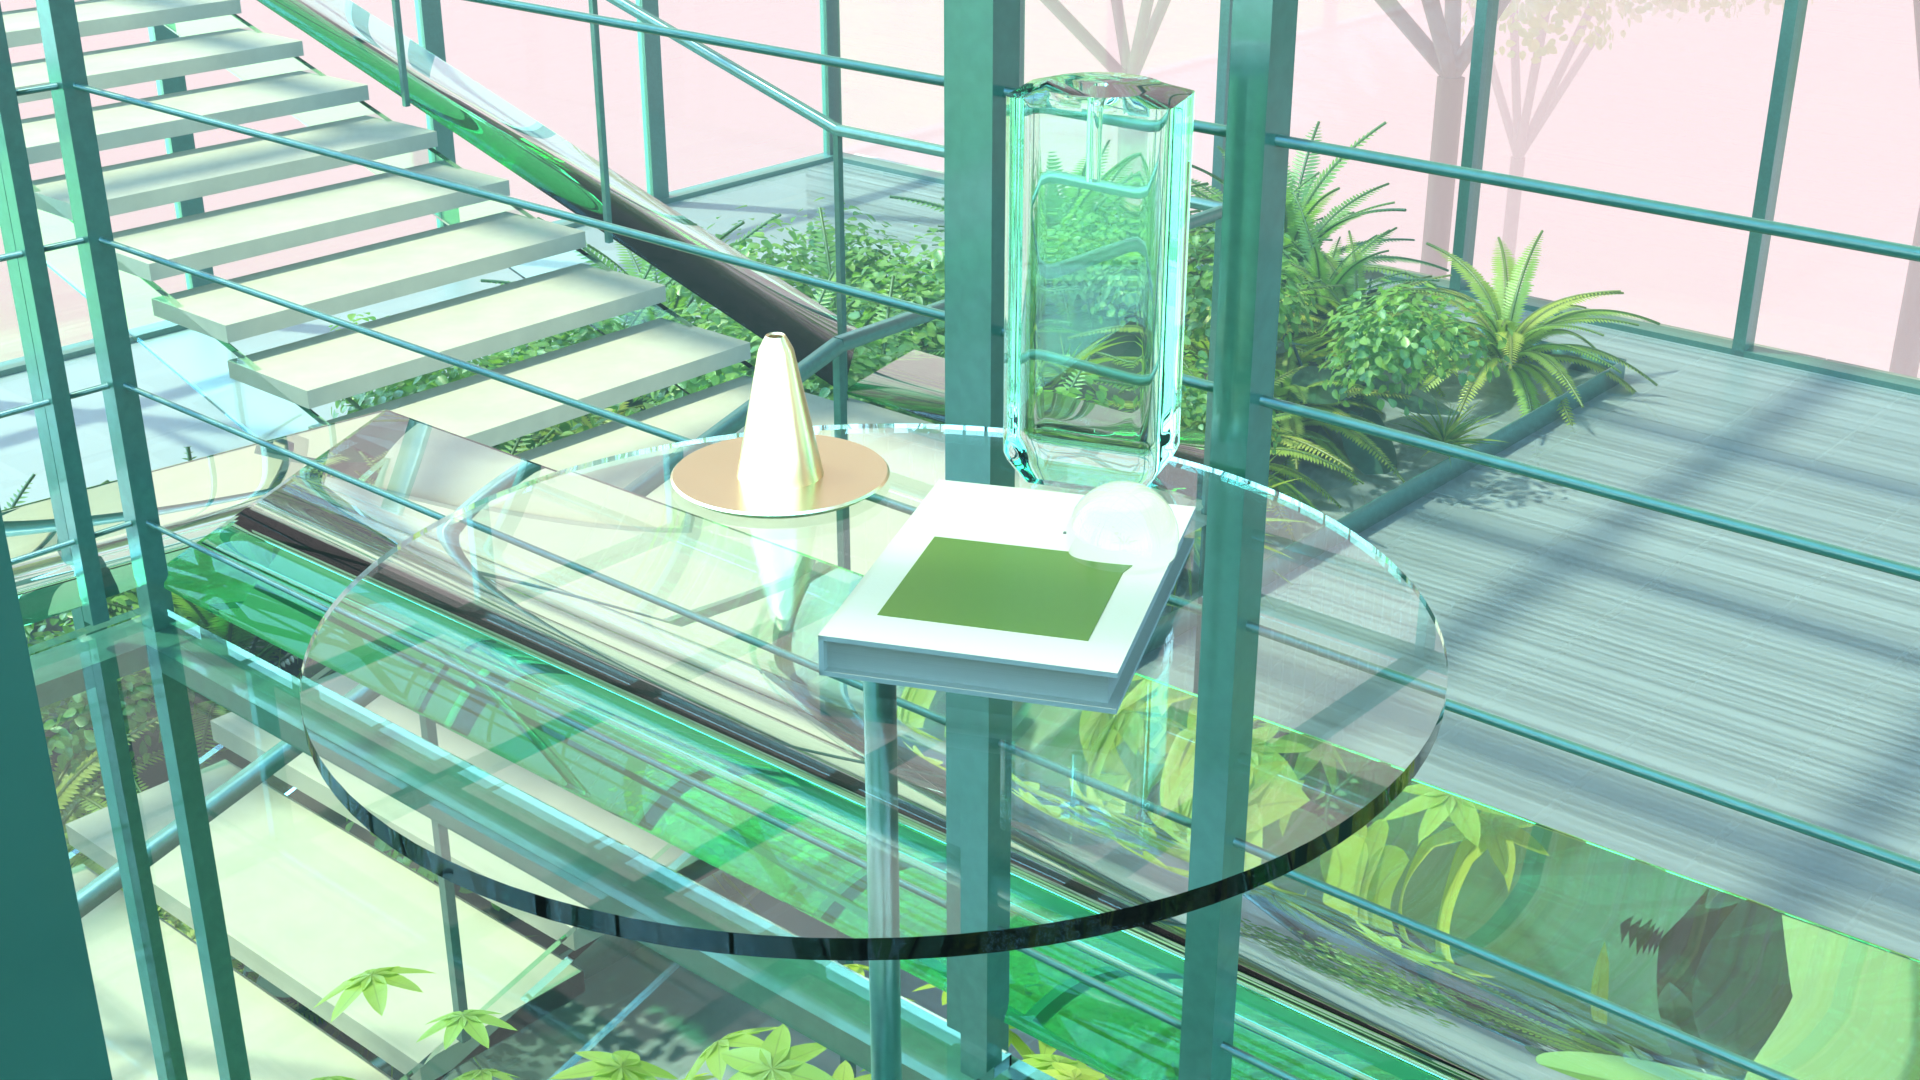
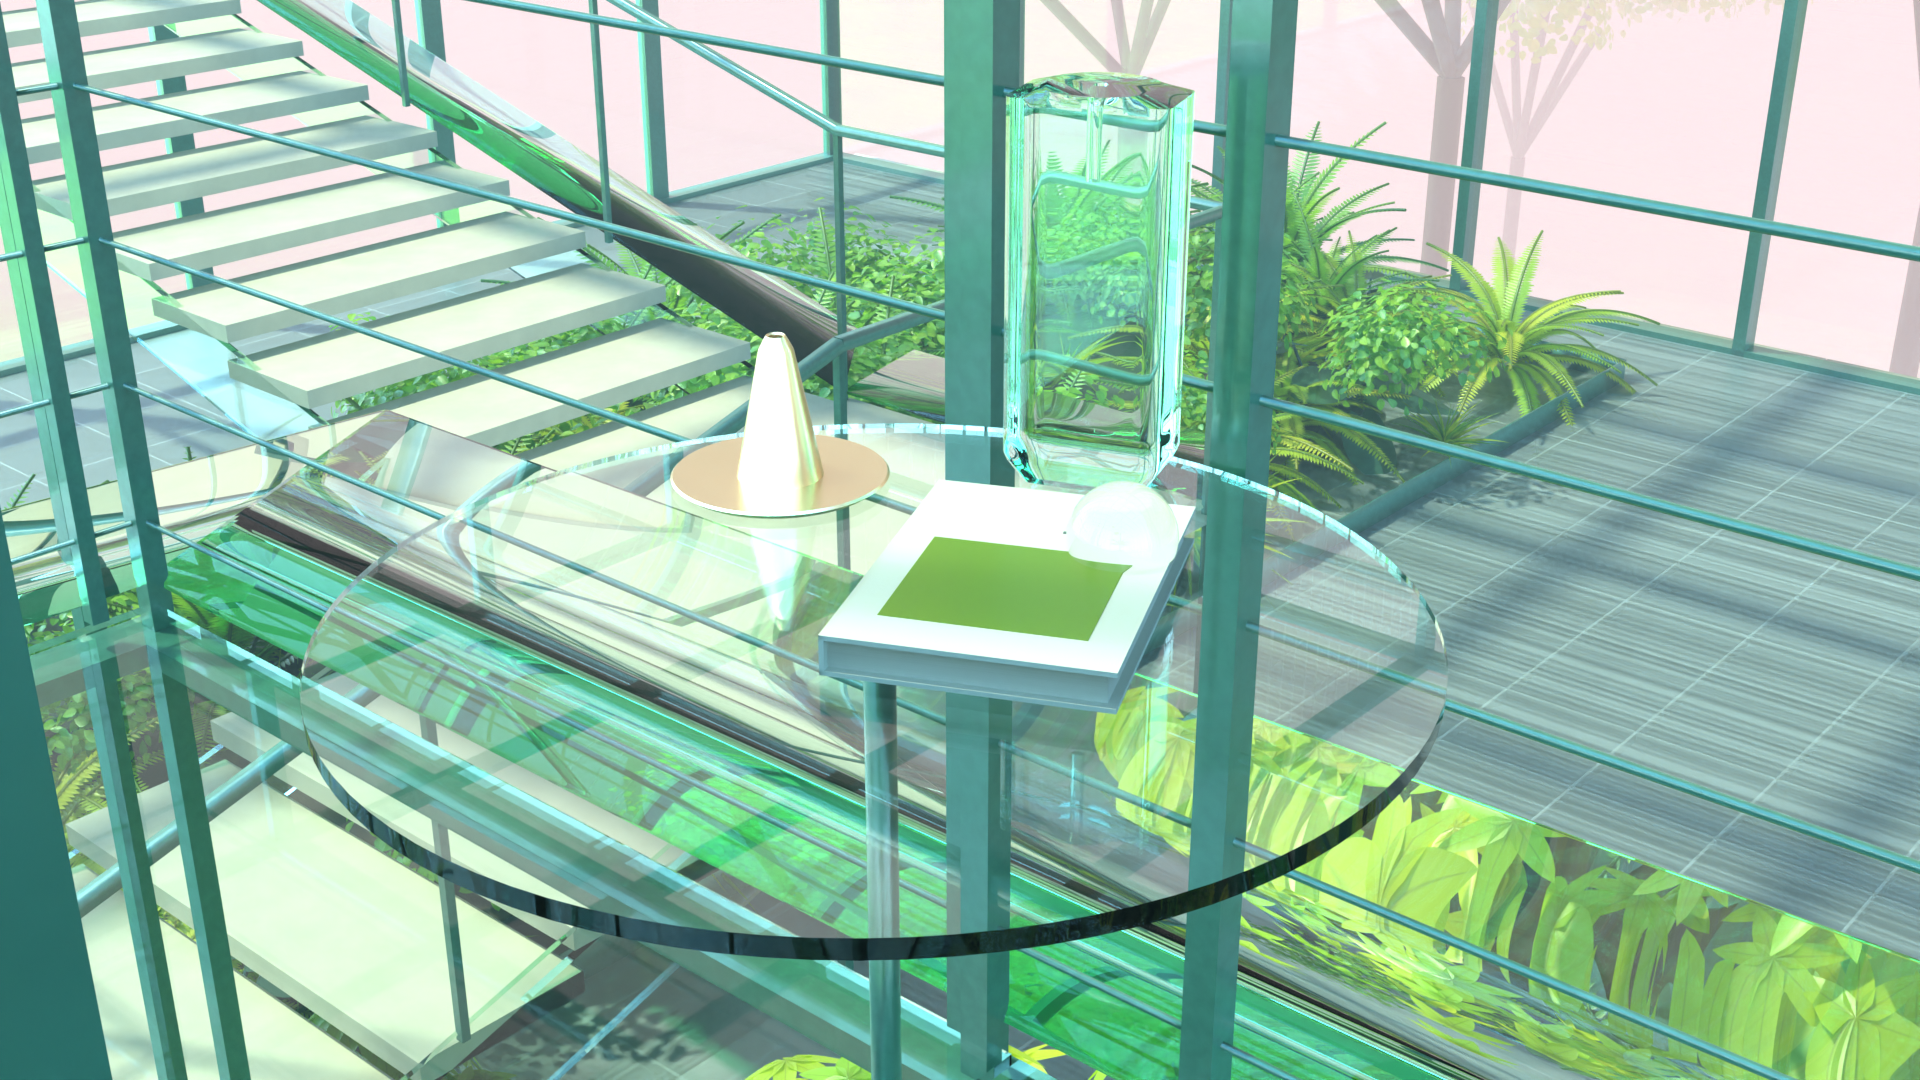
玻璃中庭：主景植物按原画逐团反投影落位，叶色提饱和

diff --git a/Other/Greenhouse/Scenes/GlassAtrium/README.md b/Other/Greenhouse/Scenes/GlassAtrium/README.md
@@ -41,7 +41,7 @@ blender -b -P Other/build.py -- Greenhouse/Scenes/GlassAtrium --view overview --
 * **立柱**：30 mm 方钢，从中庭地面（z = −3.2）直通屋顶（z = 7.22）。每一根都按原画里的竖线落位。
 * **西侧楼梯**：宽 1.5 m 的双跑楼梯，踏步 0.433 m、踢面 0.123 m；下跑 14 级从中庭地面到 z = −1.35 的平台，
   上跑 11 级转向西，到达西翼画廊。踏步位置由原画里的 6 条踏步前沿线联合拟合（残差 16 px rms）。
-* **中庭花园**：地面铺石板，楼梯两侧、画廊下、东侧各有种植池；鹅掌柴、龟背竹、海芋、芭蕉、散尾葵、肾蕨、
+* **中庭花园**：地面铺石板，楼梯两侧、画廊下、东侧各有种植池。每株主景植物（`Painted ...`）都放在原画里它那团植物的位置：把那团植物中心像素按解出的相机、在它树冠的高度反投影到 3D；鹅掌柴、龟背竹、海芋、芭蕉、散尾葵、肾蕨、
   吊兰、龙血树，外加按密度随机散布的灌木和地被（`GH.Garden.Planting`，原型在不渲染的 `library` 集合里）。
 * **画廊陈设**：高玻璃方瓶（空心，1.8 m）、圆底烧瓶、高脚玻璃椅；外沿的边桌上有黄铜花插、玻璃块、玻璃球和一本书；
   栏杆内侧种着一盆散尾葵。
@@ -91,6 +91,7 @@ python Other/Greenhouse/Scenes/GlassAtrium/calibration/fit_lights.py groups.npz 
 |------|----|
 | 结构线对齐（不含植物与陈设的钢玻结构轮廓，逐像素到原画边缘的距离） | 中位数 3.0 px；2 px 内 41.9%，4 px 内 60.1%，8 px 内 79.9% |
 | 逐像素平均绝对误差（sRGB 0–1） | 0.201 |
+| 主景植物按原画逐团反投影落位之后 | 色调误差不变（0.114），构成与原画一致 |
 | 色调误差（1/60 画宽高斯模糊后，只看颜色与明暗分布） | 0.114 |
 | 标定历程（色调误差） | 初版 0.178 → 远景烟霭 0.122 → 灯光逐通道反解 0.114 |
 
